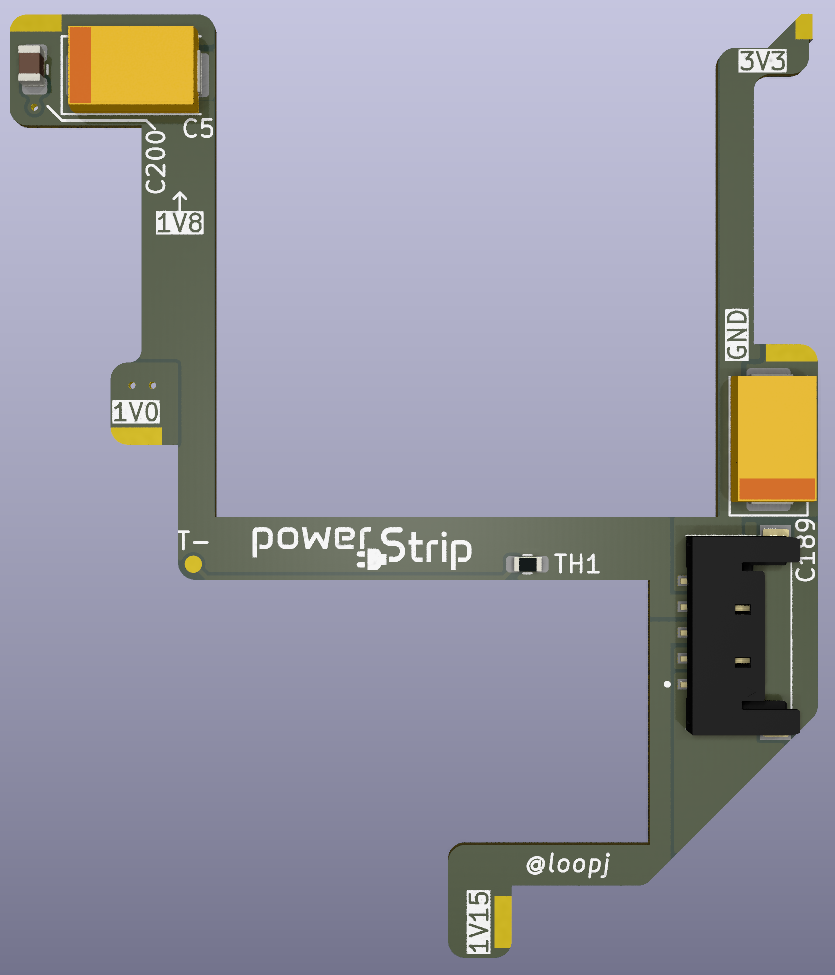
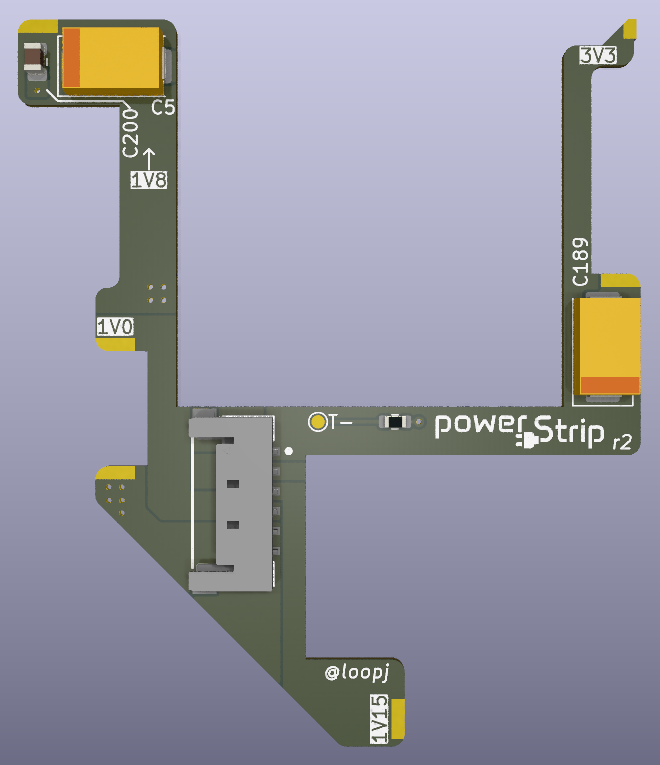
Update README for r2

Changed region(s): [[0.0, 0.0, 1.0, 0.9922]]

diff --git a/README.md b/README.md
@@ -19,30 +19,16 @@
 - Fits entirely within the outline of an Omega trim
 - Fits under heatplates/heatsinks
 
-## Notes
-
-### Connector current capacity
-
-The connector currently used on this board is the [5-pin, 1.5mm pitch Molex Pico-Lock](https://www.molex.com/en-us/products/part-detail/5040500591) connector. This connector accepts a maximum wire gauge of 24AWG which **may not be a beefy enough wire gauge for all Wii builds**. The main area of potential concern is the ground return path, which uses a single wire.
-
-For Short Stack I am cheating - I am using aluminum spacers between the Short Stack main PCB and the Wii motherboard which provide an additional ground return path through the plated mounting holes.
-
-Having said this, in my testing this connector has shown to be sufficient and stable, even when using non-conductive spacers.
-
-In a future revision I would likely swap out this connector for either:
-- [6-pin, 1.5mm pitch Molex Pico-Lock](https://www.molex.com/en-us/products/part-detail/5040500691) - doubling up on the ground wires
-- [Pico-EZMate HC, 1.8 pitch](https://www.molex.com/en-us/products/connectors/wire-to-board-connectors/pico-ezmate-connectors) - very low profile, higher current connector
-
-### C189 height
-
-Some motherboard revisions have a very tall (~2.9mm) C189 capacitor, which can interfere with heatplates. If you have one of these boards, you may wish to consider purchasing a lower profile capacitor. As long as it is a 220uF, 6.3V+, 2917 or 2312 SMD package capacitor it should work fine. The Kyocera AVX NOJY227M006RWJ is a low profile version of the original cap used on the Wii. The TAJX227K006RNJ or TAJY227K006RNJ should also both work.
-
-## How to order
+## Parts / Ordering
 
 - Grab the Gerber files for the [latest release](https://github.com/loopj/wii-power-strip/releases/latest)
 - Order a 2-layer, 0.6mm PCB from JLCPCB or similar fab
-- Purchase a Molex 504050-0591 connector from [DigiKey](https://www.digikey.com/en/products/detail/molex/5040500591/9352715), [Mouser](https://www.mouser.com/ProductDetail/Molex/504050-0591?qs=OAhjpuo3Vu7FoUIT4KH7/g%3D%3D), or your favorite component store
-- Don't forget to purchase either pre-assembled cables, or parts to crimp your own
+- Purchase a 6-pin Molex Pico-Lock connector, PN 504050-0691 ([DigiKey](https://www.digikey.com/en/products/detail/molex/5040500691/4357148), [Mouser](https://www.mouser.com/ProductDetail/Molex/504050-0691?qs=bvCPb%252BE7ys2K1LQC9e%2FvRg%3D%3D))
+- Purchase either a pre-assembled cable, or parts to crimp your own
+  - 50mm pre-assembled cable, PN 15132-0600 ([DigiKey](https://www.digikey.com/en/products/detail/molex/0151320600/7423256), [Mouser](https://www.mouser.com/ProductDetail/Molex/15132-0600?qs=HXFqYaX1Q2wQ%2F2lUgfK5Kw%3D%3D))
+  - 100mm pre-assembled cable, PN 15132-0601 ([DigiKey](https://www.digikey.com/en/products/detail/molex/0151320601/7423257), [Mouser](https://www.mouser.com/ProductDetail/Molex/15132-0601?qs=HXFqYaX1Q2xvCBLpk4R9sg%3D%3D))
+  - Connector, PN 504051-0601 ([DigiKey](https://www.digikey.com/en/products/detail/molex/5040510601/4357150), [Mouser](https://www.mouser.com/ProductDetail/Molex/504051-0601?qs=bvCPb%252BE7ys2KoBFgs2%2FzNw%3D%3D))
+  - Crimp terminals, PN 504052-0098 ([DigiKey](https://www.digikey.com/en/products/detail/molex/5040520098/4357152), [Mouser](https://www.mouser.com/ProductDetail/Molex/504052-0098-Cut-Strip?qs=lzT3SgJKZn3tXLBIQ9V4FQ%3D%3D))
 - Optional - 10KΩ thermistor with a 3380K B value, in an 0603 SMD package
 
 ## Installation
@@ -52,12 +38,16 @@ Some motherboard revisions have a very tall (~2.9mm) C189 capacitor, which can i
 - Solder the connector and any rescued capacitors to the board by hand or using a hot plate
 - Place board on the Wii motherboard, it should self-align
 - Solder the pads on the edge of the board to the Wii motherboard
-    - GND pad solders to the bottom of C180
-    - 1V0 pad solders to the top of C143
-    - 1V15 pad solders to the left of C17
-    - 1V8 pad solders to the via array at the top left. You may wish to scratch away some solder mask to have more copper to solder to
-    - 3V3 pad solders to the top of C128
+    - 1V0 to the top of C143
+    - 1V15 to the left of C17
+    - 1V8 to the via array at the top left. You may wish to scratch away some solder mask to have more copper to solder to.
+    - 3V3 to the top of C128
+    - GND to the bottom of C180 and C143
 - Use plenty of solder and flux!
+
+## C189 height
+
+Some motherboard revisions have a very tall (~2.9mm) C189 capacitor, which can interfere with heatplates if you are relocating it. If you have one of these boards, you may wish to consider purchasing a lower profile capacitor. As long as it is a 220uF, 6.3V+, 2917 or 2312 SMD package capacitor it should work fine. The Kyocera AVX NOJY227M006RWJ is a low profile version of the original cap used on the Wii. The TAJX227K006RNJ or TAJY227K006RNJ should also both work.
 
 ## License
 
